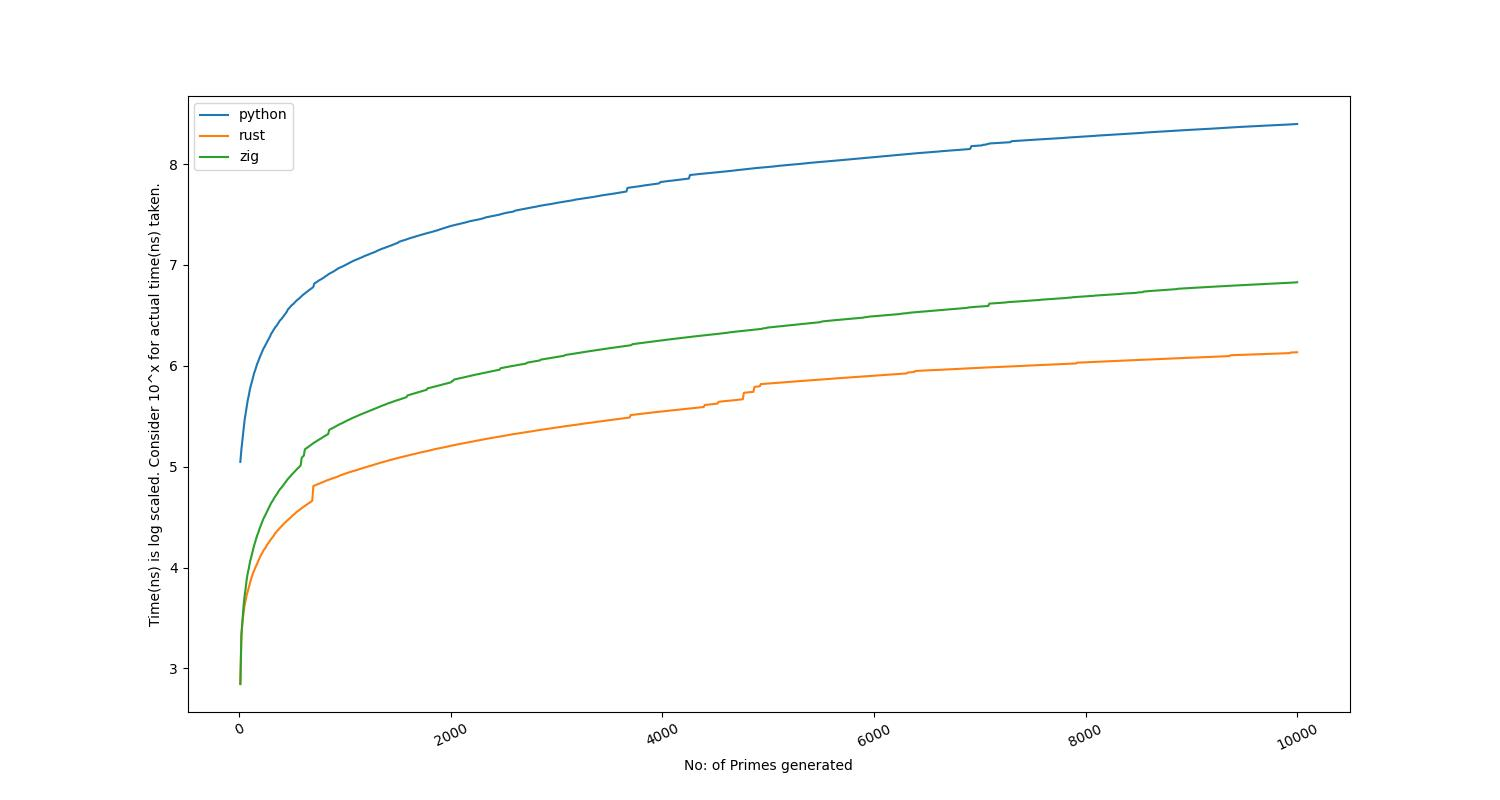
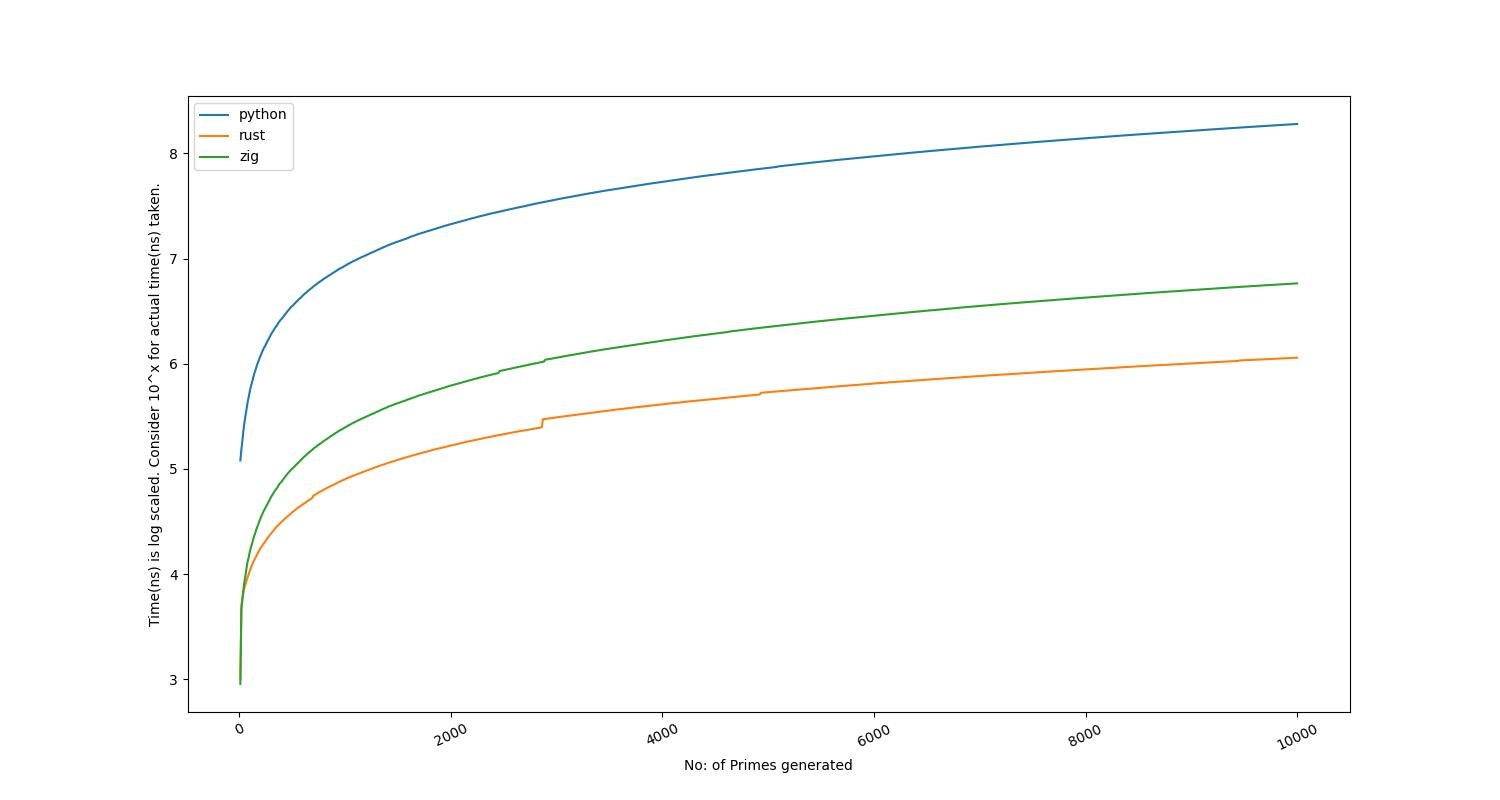
benchmark image and updated Reamdme

diff --git a/README.md b/README.md
@@ -7,6 +7,6 @@ Note: The above graph is autogenerated for every github action run. Tweak the pa
 
 |Language|nth prime|time taken|
 |---|---|---|
-|python|10000|0.249s|
+|python|10000|0.19s|
 |rust|10000|0.001s|
-|zig|10000|0.007s|
+|zig|10000|0.006s|
